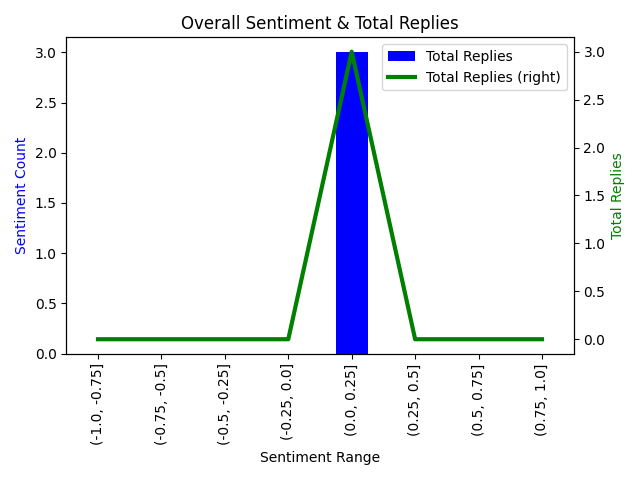
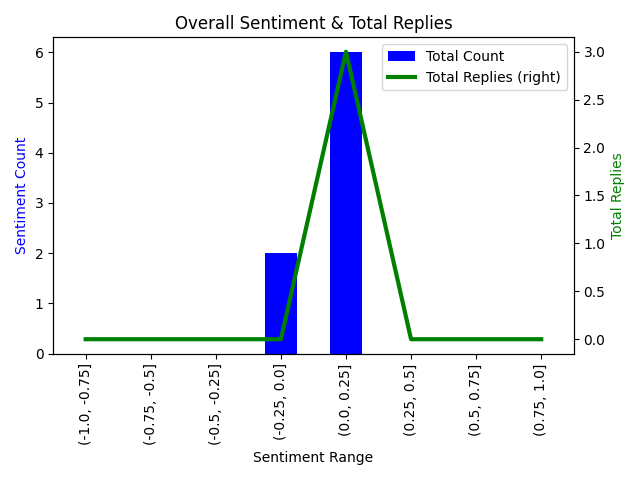
Rearranged graph functions

diff --git a/data_transformation/DataTransform.py b/data_transformation/DataTransform.py
@@ -103,7 +103,7 @@ class DataTransform:
         comment_df, sentiment_stats = self.create_df(comments_dict)
         # Creating axes object and defining plot
         ax = sentiment_stats.plot(kind='bar', x='Sentiment Range',
-                                  y='Total Replies', color='Blue',
+                                  y='Total Count', color='Blue',
                                   linewidth=3, rot=90)
 
         ax2 = sentiment_stats.plot(kind='line', x='Sentiment Range',
@@ -126,7 +126,7 @@ class DataTransform:
         plt.savefig("Graphs/overall_sentiment_and_replies.png")
         plt.show()
 
-    def sentiment_pie(self, comments_dict):
+    def sentiment_timeline(self, comments_dict):
         comment_df, sentiment_stats = self.create_df(comments_dict)
         # Create scatterplot for timeline vs sentiment
 
@@ -134,21 +134,18 @@ class DataTransform:
         plt.savefig("Graphs/sentiment_timeline.png")
 
         # Create DataFrame for sentiment description
-
-        sentiment_description_df = comment_df.groupby("Sentiment Description").agg(
-            total_count=('ID', 'count')
-        )
-        # sentiment_description_df = sentiment_description_df.rename(columns={"total_count": "Sentiment"})
-        sentiment_description_df
-
-        # Create pie graph for sentiment distribution
-
-    def sentiment_timeline(self, comments_dict):
+    def sentiment_pie(self, comments_dict):
         comment_df, sentiment_stats = self.create_df(comments_dict)
         sentiment_description_df = comment_df.groupby("Sentiment Description").agg(
             total_count=('ID', 'count')
         )
-        sentiment_pie = sentiment_description_df.plot.pie(y='total_count', figsize=(5, 5))
+
+        # Create pie graph for sentiment distribution
+        comment_df, sentiment_stats = self.create_df(comments_dict)
+        sentiment_description_df = comment_df.groupby("Sentiment Description").agg(
+            total_count=('ID', 'count')
+        )
+        sentiment_pie = sentiment_description_df.plot.pie(y='total_count', figsize=(5, 5), shadow = True, autopct='%1.1f%%')
         plt.savefig("Graphs/sentiment_pie.png")
 
 if __name__ == '__main__':
@@ -186,3 +183,8 @@ if __name__ == '__main__':
     pprint(comment_dict)
 
     df = DataTransform()
+
+    #df.overall_sentiment_upvotes(comment_dict)
+    #df.overall_sentiment_replies(comment_dict)
+    #df.sentiment_timeline(comment_dict)
+    #df.sentiment_pie(comment_dict)
